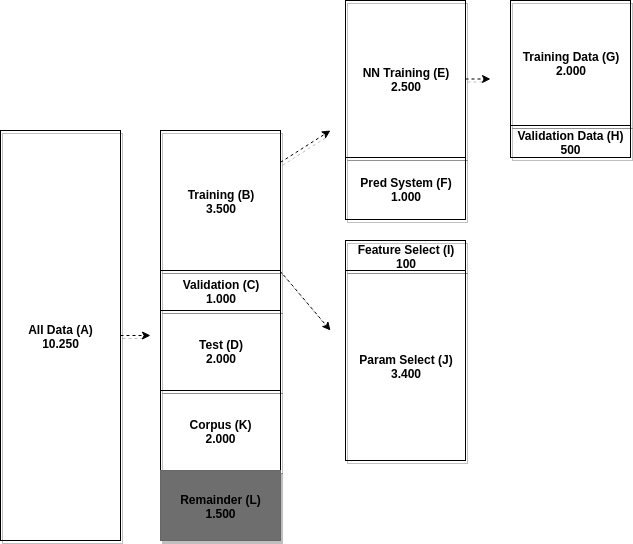
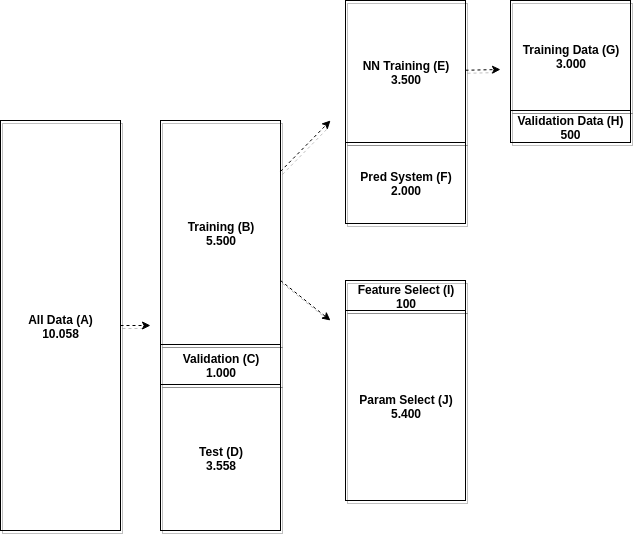
Updated data, fix errs and added acu err and acc for N6

diff --git a/report/data.tex b/report/data.tex
@@ -4,17 +4,17 @@
 As described earlier we use data from the Danish company MaCom. The dataset
 provided by MaCom is a file consisting of set of texts in Danish where each text
 is associated with an author ID. Throughout the development process we've been
-given several data extract. The final extract used for experiments consisted
-of a set of 10.250 authors, where a maximum of 100 authors were extracted from
-each school. Before running any kind of experiments, this data was split up into
-several parts, each part severing a different purpose in our experimentation.
-The splitting of the data can be seen in Figure \ref{fig:data_split}. The
-purpose of the sets are the following:
+given several data extract. The final extract used for experiments consisted of
+a set of 10.250 authors, where a maximum of 100 authors were extracted from each
+school. In total, this is 133749 texts. Before running any kind of experiments,
+this data was split up into several parts, each part severing a different
+purpose in our experimentation. The splitting of the data can be seen in Figure
+\ref{fig:data_split}. The purpose of the sets are the following:
 
 \begin{figure}
     \centering
     \textbf{Illustration of Datasets}\par\medskip
-    \includegraphics[width=0.75\textwidth]{./pictures/data/Data.png}
+    \includegraphics[width=.8\textwidth]{./pictures/data/Data.png}
     \caption{Shows how we have split the dataset we are given. The splits are
         performed on the number of authors in each set. That means that all of
         an authors texts are contained in the same dataset. In particular that
@@ -26,88 +26,62 @@ purpose of the sets are the following:
 \begin{itemize}
 
 \item[- (A).] The entire set of extracted data. This consists of text written
-by, 10.250 different danish high school students, spanning different schools
+by, 10.058 different danish high school students, spanning different schools
 throughout the country.
 
-% Split A
-\begin{itemize}
-
-\item[- (B).]
-A subset of the entire set (A). Consisting of the texts written by
-3.500 different authors, this set if used in the training process and parameter
-tuning of the produced \gls{NN}'s, Baseline Methods, and prediction system.
-
-% Split B
-\begin{itemize}
-
-\item[- (E).] As mentioned (B) is used for training both the baselines and the 
-\gls{NN}'s. In both circumstances, and different split of (B) is performed.
-(E) is the data used for the actual training of the \gls{NN}'s.
-
-
-% Split E
-\begin{itemize}
-\item[- (H).] The training data which is given to our \gls{NN}'s.
-
-\item[- (G).] A separate validation set, where not authors overlap with (H), which
-is used to determine the accuracy of our the model on an independent set of
-authors during training. This allows us to stop the training when we reach
-the desired generalization and accuracy.
-
-\end{itemize}
-
-
-\item[- (F).] If is the other split (B) intended for \gls{NN} use. This set is
-used as the basis of the prediction system described in the earlier 
-sections of this paper.
-
-\item[- (I).] This is other split of (B), used on the baseline methods together
-with set (J). This set is used perform the feature selection needed for both
-the SVM and the Extended Delta methods. The specifics of this process will be
-described in section \ref{subsec:baseline}.
-
-\item[- (J).] Like with (I), this set is used to tune the baseline methods. (J) is
-used to determine the best parameters for the base line methods. This would be K
-and p in the case of the Extended Delta Method, and C and Gamma for the SVM.
-Like with (I), the specifics of this parameter selection will be covered in
-section \ref{subsec:baseline}.
-
-\end{itemize}
-
+\item[- (B).] Consisting of the texts written by 5.500 different authors, this
+set if used in the training process for the \gls{NN}s where it is used for
+training/validation and the prediction system. It is also used for the baseline
+methods, where this entire set is used as the corpus, and subsections of it is
+used feature selection and hyper parameter search.
 
 \item[- (C).]
 Being untouched throughout the training process, this set is used for unbiased
 validation, and selection of networks to be used on the test set (D). Contrary
 to the training set (B), this is only used for the final selection of our best 
-models. No parameter selection/training is done on this set.
-
+models during the training process.
 
 \item[- (D).]
 The test set, which as the name implies, is used to test the
 performance of our final models.
 
-\item[- (K).]
-A subset of texts from set (A),  which is used to as a corpus for the baselines.
-The corpus is used as the basis of feature extraction for our baseline methods,
-by basing the options for features on the features available in the corpus.
+\item[- (E).] As mentioned (B) is used for training both the baselines and the 
+\gls{NN}s. In both circumstances, and different split of (B) is performed.
+(E) is the data used for the actual training of the \gls{NN}s.
 
-\item[- (L).]
-The superfluous authors, which can be drawn upon in the case more data is needed
-in any of the other data sets.
+\item[- (F).] This set is used as the basis of the prediction system described
+in the earlier sections of this paper.
+
+\item[- (G).] The training data which is given to our \gls{NN}s.
+
+\item[- (H).] A separate validation set, where no authors overlap with (H),
+which is used to determine the accuracy of our the model on an independent set
+of authors during training. This allows us to stop the training when we reach
+the desired generalization and accuracy.
+
+\item[- (I).] This is an alternate split of (B), used on the baseline methods
+together with set (J). This set is used perform the feature selection needed for
+both the SVM and the Extended Delta methods. The specifics of this process will
+be described in section \ref{subsec:baseline}.
+
+\item[- (J).] This set is used to tune the baseline methods. (J) is used to
+determine the best hyper parameters for the base line methods. This would be K
+and p in the case of the Extended Delta Method, and C and Gamma for the SVM.
+Like with (I), the specifics of this parameter selection will be covered in
+section \ref{subsec:baseline}.
+
 
 \end{itemize}
 
-\end{itemize}
-
-The training set (B), consists of a total of 73.238 texts written in the same
-class , split over the 5.500 authors, from different schools. Each authors has
+The training set (B), consists of a total of 73311 texts written in the same
+class, split over the 5.500 authors, from different schools. Each authors has
 written in average 13 texts, with the standard deviation being 4.2. We initially
 removed the first 200 characters of each text, as the beginning of each text
 contains a lot of authorship identifying information, such as name, school, and
 specifics class. The removal of these characters also make sure that no garbage
 texts are included. The texts vary a lot in both structure and length, spanning
 from poems to essays. It is for this reason that this sets character count has
-a standard deviation of 4904 even though the average character count of 5549.
+a standard deviation of 4133 even though the average character count of 5516.
 The full statistics of the training set (B) can be seen in the appendix, section
 \ref{sec:B_stats}.
 
@@ -120,30 +94,31 @@ memory causing our models to crash. Another purpose of these constraints is to
 make the data-set generalize better by removing the outliers.
 
 As can be seen in the statistics in section \ref{sec:B_stats}, the text
-containing the smallest text only contains 2 characters, and does obviously not
-contain any valuable information. After the removal of these 200 characters, we
-also remove texts that have below 200 characters left after the removal, as they
-don't provide enough information about that specific author. The application
-of these two constraints, resulted in 1.743 of the 73.238 texts being removed.
-After which we applied a upper constraint, in terms of the total number of
-characters. The reason for this, was a mentioned earlier, that there are some
-texts eating up all the available memory, such as the largest text in (B), which
-consists of 682.346 characters. We found that limiting the number of characters
-to 30.000 gave good results, by removing the crash-inducing texts, without
-affecting the overall data-quality too much, as this only removed 118 texts from
-(B).
+containing the smallest consists of 0 characters, and does obviously not
+contain any valuable information. In addition to the 200 characters we removed
+initially, we also removed texts that have below 200 characters left after the
+removal, as they don't provide enough information about that specific author,
+and would work properly with our baseline methods due to the size.
+The application of this constraint, resulted in 1.823 of the 73.311 texts
+being removed. After which we applied a upper constraint, in terms of the total
+number of characters. The reason for this, was a mentioned earlier, that there
+are some texts eating up all the available memory, such as the largest text in
+(B), which consists of 338.315 characters. We found that limiting the number of
+characters to 30.000 gave good results, by removing the crash-inducing texts,
+without affecting the overall data-quality too much, as this only removed 119
+texts from (B).
 
 Since we also perform some sentence level networks as well, we also chose to
 limit the max number of sentences, for the same reason as with the characters.
 The text with the largest amount of sentences, contains 4401 sentences. With
-an average sentence count of 49 and a standard deviation of 40, this text is
+an average sentence count of 49 and a standard deviation of 39, this text is
 obviously an outlier, and doesn't generalize the data set very well. A such we
-impose a upper limit of 500 sentences per text, which removes another 25 texts
+impose a upper limit of 500 sentences per text, which removes another 26 texts
 from (B).
 
 The last constraint regards the unique characters in each text. Look at the
 stats we can see that there is a text containing 219 unique characters, greatly
-exceeding the average of 55. A unique character count like this, implies that a
+exceeding the average of 57. A unique character count like this, implies that a
 non-danish alphabet might have been used, and for that reason texts like these
 don't add to the generalization we strive towards. This is combatted creating a
 list of characters based on the data used for training, each character in this
@@ -158,10 +133,21 @@ the character frequency threshold, the overall of frequency of the specific
 characters drops dramatically.
 
 After applying all of the constraints, and taking into account
-overlap between them, 1.864 texts were removed from the total 73.238 in (B),
+overlap between them, 1.944 texts were removed from the total 73.311 in (B),
 which is a negligible amount compared to the computational and generalization
 advantages it includes.
-In the end this leaves set (B) with 71374 texts.
+In the end this leaves set (B) with 71.367 texts.
+
+The aforementioned constraints were not all applied to entirety (A) in the same
+manner. Both (C) and (D) are used in a testing context, for that reason removing
+the first 200 characters wont make sense as we only did that to prevent the
+training process in latching on to author specific meta-data in the text. We
+still apply the lower constraint of 200, as this system was intended for usage
+of the large SRP assignment the students make at the end of their last year,
+this this constraints scrubs away potential garbage texts. The upper limit
+is removed, as this was only a step to prevent our methods from crashing. By
+applying the methods on a students assignment in a singular fashion rather than
+a batch one, we won't have the same problem.
 
 \begin{figure}[htb]
 \begin{minipage}{.5\linewidth}

diff --git a/report/method.tex b/report/method.tex
@@ -241,7 +241,8 @@ The function each neuron computes is then,
 
 \begin{equation}\label{eq:neuron}
     z_i = h(a_i) = h\left(
-        \sum_{j = 1}^d w_{ij}x_j + w_{i0}
+        \sum_{j = 1}^d w_{ij}x_j + w_{i0} =
+        \sum_{j = 0}^d w_{ij}x_j
     \right).
 \end{equation}
 
@@ -919,7 +920,7 @@ function. In order to do so, we need to have a independent variable we can
 tweak using Gradient Descent as per the above description. In the case of
 neural networks we can view this variable as being the weights and the biases,
 which are defined used as described in Section \ref{sec:neurons}. In other
-words we want to update each individual weight by doing the following operation
+words we want to update each weight vector by doing the following operation
 repeatedly.
 
 \begin{equation}\label{eq:update}
@@ -930,11 +931,11 @@ Where w is a singular weight value, and t refers to a specific step, in the
 chain of steps performed by Gradient Descent.
 
 \begin{equation}
-\Delta w^{(t)} = -\nabla E|_{\pmb{w}^{(t)}}
+\Delta \pmb(w)^{(t)} = -\nabla E|_{\pmb{w}^{(t)}}
 \end{equation}
 
 $\nabla E|_{\pmb{w}^{(t)}}$ refers to the gradient of the
-error function relative to that specific weight, or rewritten.
+error function relative to that specific weight vector, or rewritten.
 
 $$
 \nabla E|_{\pmb{w}^{(t)}} = \frac{\partial E}{\partial \pmb{w}^{(t)}}
@@ -975,7 +976,7 @@ before doing so, we need to establish the chain rule.
 \end{lemma}
 
 The reason behind the need of the chain rule is that the loss function is
-essentially a giant recursive function call, that spans the entire network. This
+essentially a giant chain of function call, that spans the entire network. This
 fact becomes apparent attempt to evaluate our single sample error function $E$
 with respect to a weight $w_{ij}$. If we keep in mind that the neurons in feed
 forward neural networks, computes weighted sum of its inputs as per $a_i$ in
@@ -988,20 +989,20 @@ the following:
 \frac{\partial a_i}{\partial \pmb{w}_{ij}}
 \end{equation}
 
-For future ease, we can introduce the following notation, often referred to as
-\textit{errors}
+We can add a little extra notation, which we will use hence forth, for the 
+sake of easing understanding.
 
 \begin{equation}
 \delta_i = \frac{\partial E}{\partial a_i}
 \end{equation}
 
+$\delta$ is often referred to as the \textit{error} of a specific neuron.
 From \eqref{eq:neuron} we get that 
 
 \begin{align}
 \frac{\partial a_i}{\partial \pmb{w}_{ij}} &= \frac{\partial}{\partial \pmb{w}_{ij}} 
-\sum_j \pmb{w}_{ij} x_j + \pmb{w}_{i0}\\
-&= \frac{\partial}{\partial \pmb{w}_{ij}} \sum_j \pmb{w}_{ij} x_j + 1 
-& \text{Let activation of bias be 1}\\
+\sum_{j=1} \pmb{w}_{ij} x_j + \pmb{w}_{i0}\\
+&= \frac{\partial}{\partial \pmb{w}_{ij}} \sum_{j = 0} \pmb{w}_{ij} x_j
 &= x_j 
 \end{align}
 
@@ -1021,19 +1022,23 @@ units, $\delta$ is computes as follows:
 
 \begin{equation}
 \label{eq:output}
-\delta_n = \hat{y}_n - y_n
+\delta_k = \hat{y}_k - y_k
 \end{equation}
 
+Where \textit{k}, refers to a specifc output neuron.
 However, for the hidden units, the chain rule has to be used again.
 
 \begin{equation}
 \label{eq:bp}
-\delta_i = \frac{\partial E}{\partial a_i} = \sum_n \frac{\partial E}{\partial a_n}
-\frac{\partial a_n}{\partial a_i}
+\delta_i = \frac{\partial E}{\partial a_i} = \sum_k \frac{\partial E}{\partial a_k}
+\frac{\partial a_k}{\partial a_i}
 \end{equation}
 
-Where the sum runs over all \textit{n} units that unit \textit{i}, sends
-connections. This highlights the fact that changes in $a_i$ only influences
+Where the sum runs over all \textit{k} units that unit \textit{i}, sends
+connections. 
+Where in this case, \textit{k} denotes the units that, unit \textit{i} sends
+its values.
+This highlights the fact that changes in $a_i$ only influences
 the error-function, through variations of the variables $a_n$. The leaves us
 with the fact that we can compute the $\delta$ for a particular hidden unit by
 backpropagating the $\delta$ value back from higher up in the network.

diff --git a/report/pictures/experiments/source/generate_prediction_system_graphs.py b/report/pictures/experiments/source/generate_prediction_system_graphs.py
@@ -39,7 +39,9 @@ plt.xlabel('Threshold (Theta)')
 plt.ylabel('Accuracy')
 plt.grid(True)
 plt.legend()
+plt.savefig('Accuracy.png')
 plt.show()
+plt.clf()
 
 for weight in np.unique(weights):
     label = 'Weight {}'.format(weight)
@@ -51,7 +53,9 @@ plt.xlabel('Threshold (Theta)')
 plt.ylabel('Accusation Error')
 plt.grid(True)
 plt.legend()
+plt.savefig('Accusation_Error.png')
 plt.show()
+plt.clf()
 
 valid = data[data[:, 3] < 0.1]
 best_index = np.argmax(valid[:, 2])

diff --git a/report/report.tex b/report/report.tex
@@ -12,6 +12,7 @@
 \usepackage{verbatim}
 \usepackage[all]{xy}
 \usepackage{amssymb}
+\usepackage{svg}
 \usepackage{neuralnetwork}
 \usepackage{listings}
 \usepackage{glossaries}
